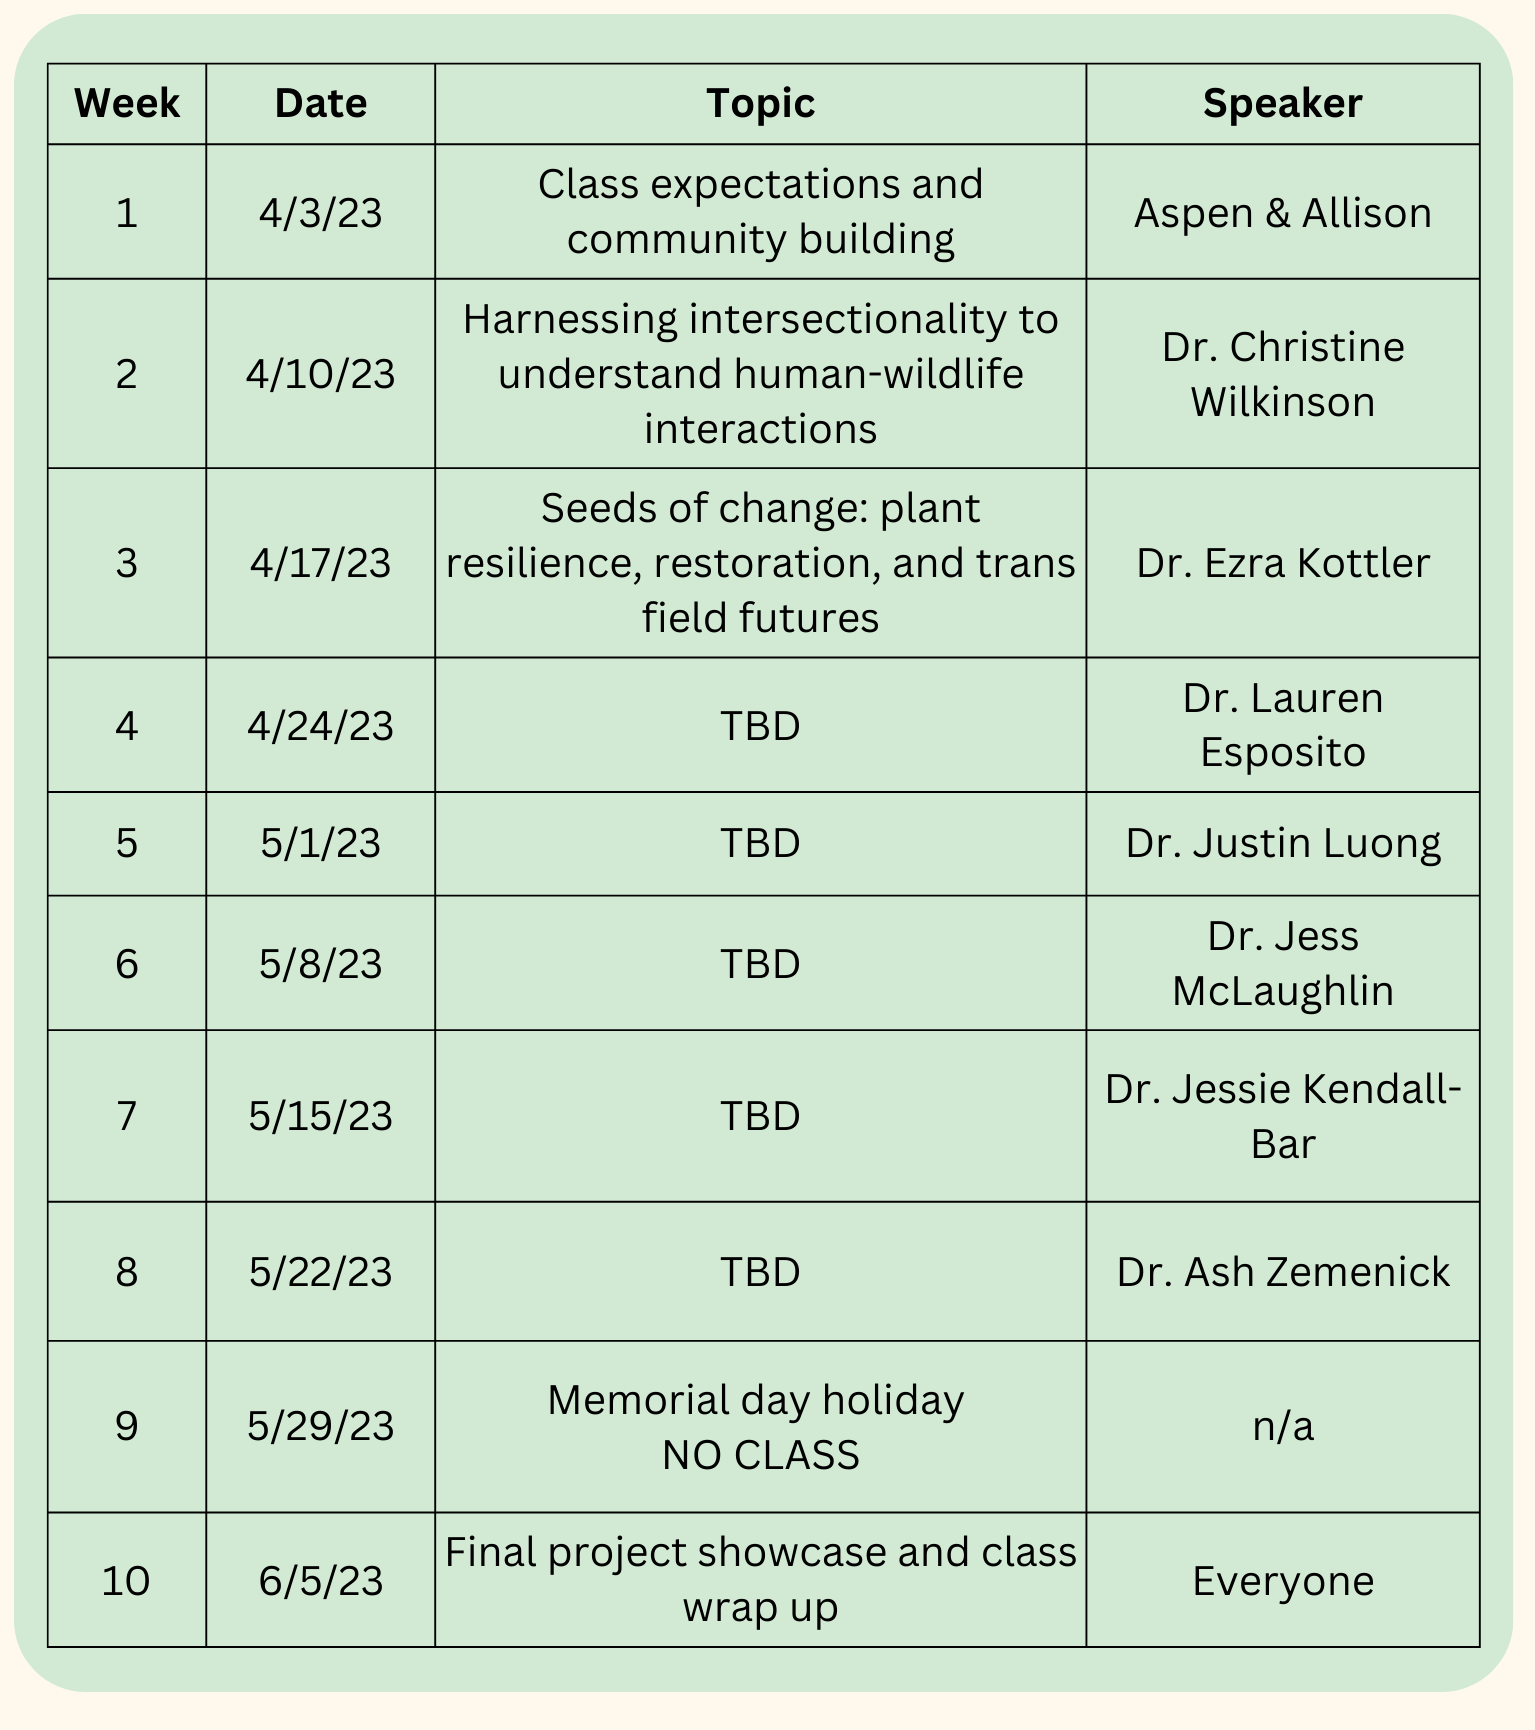
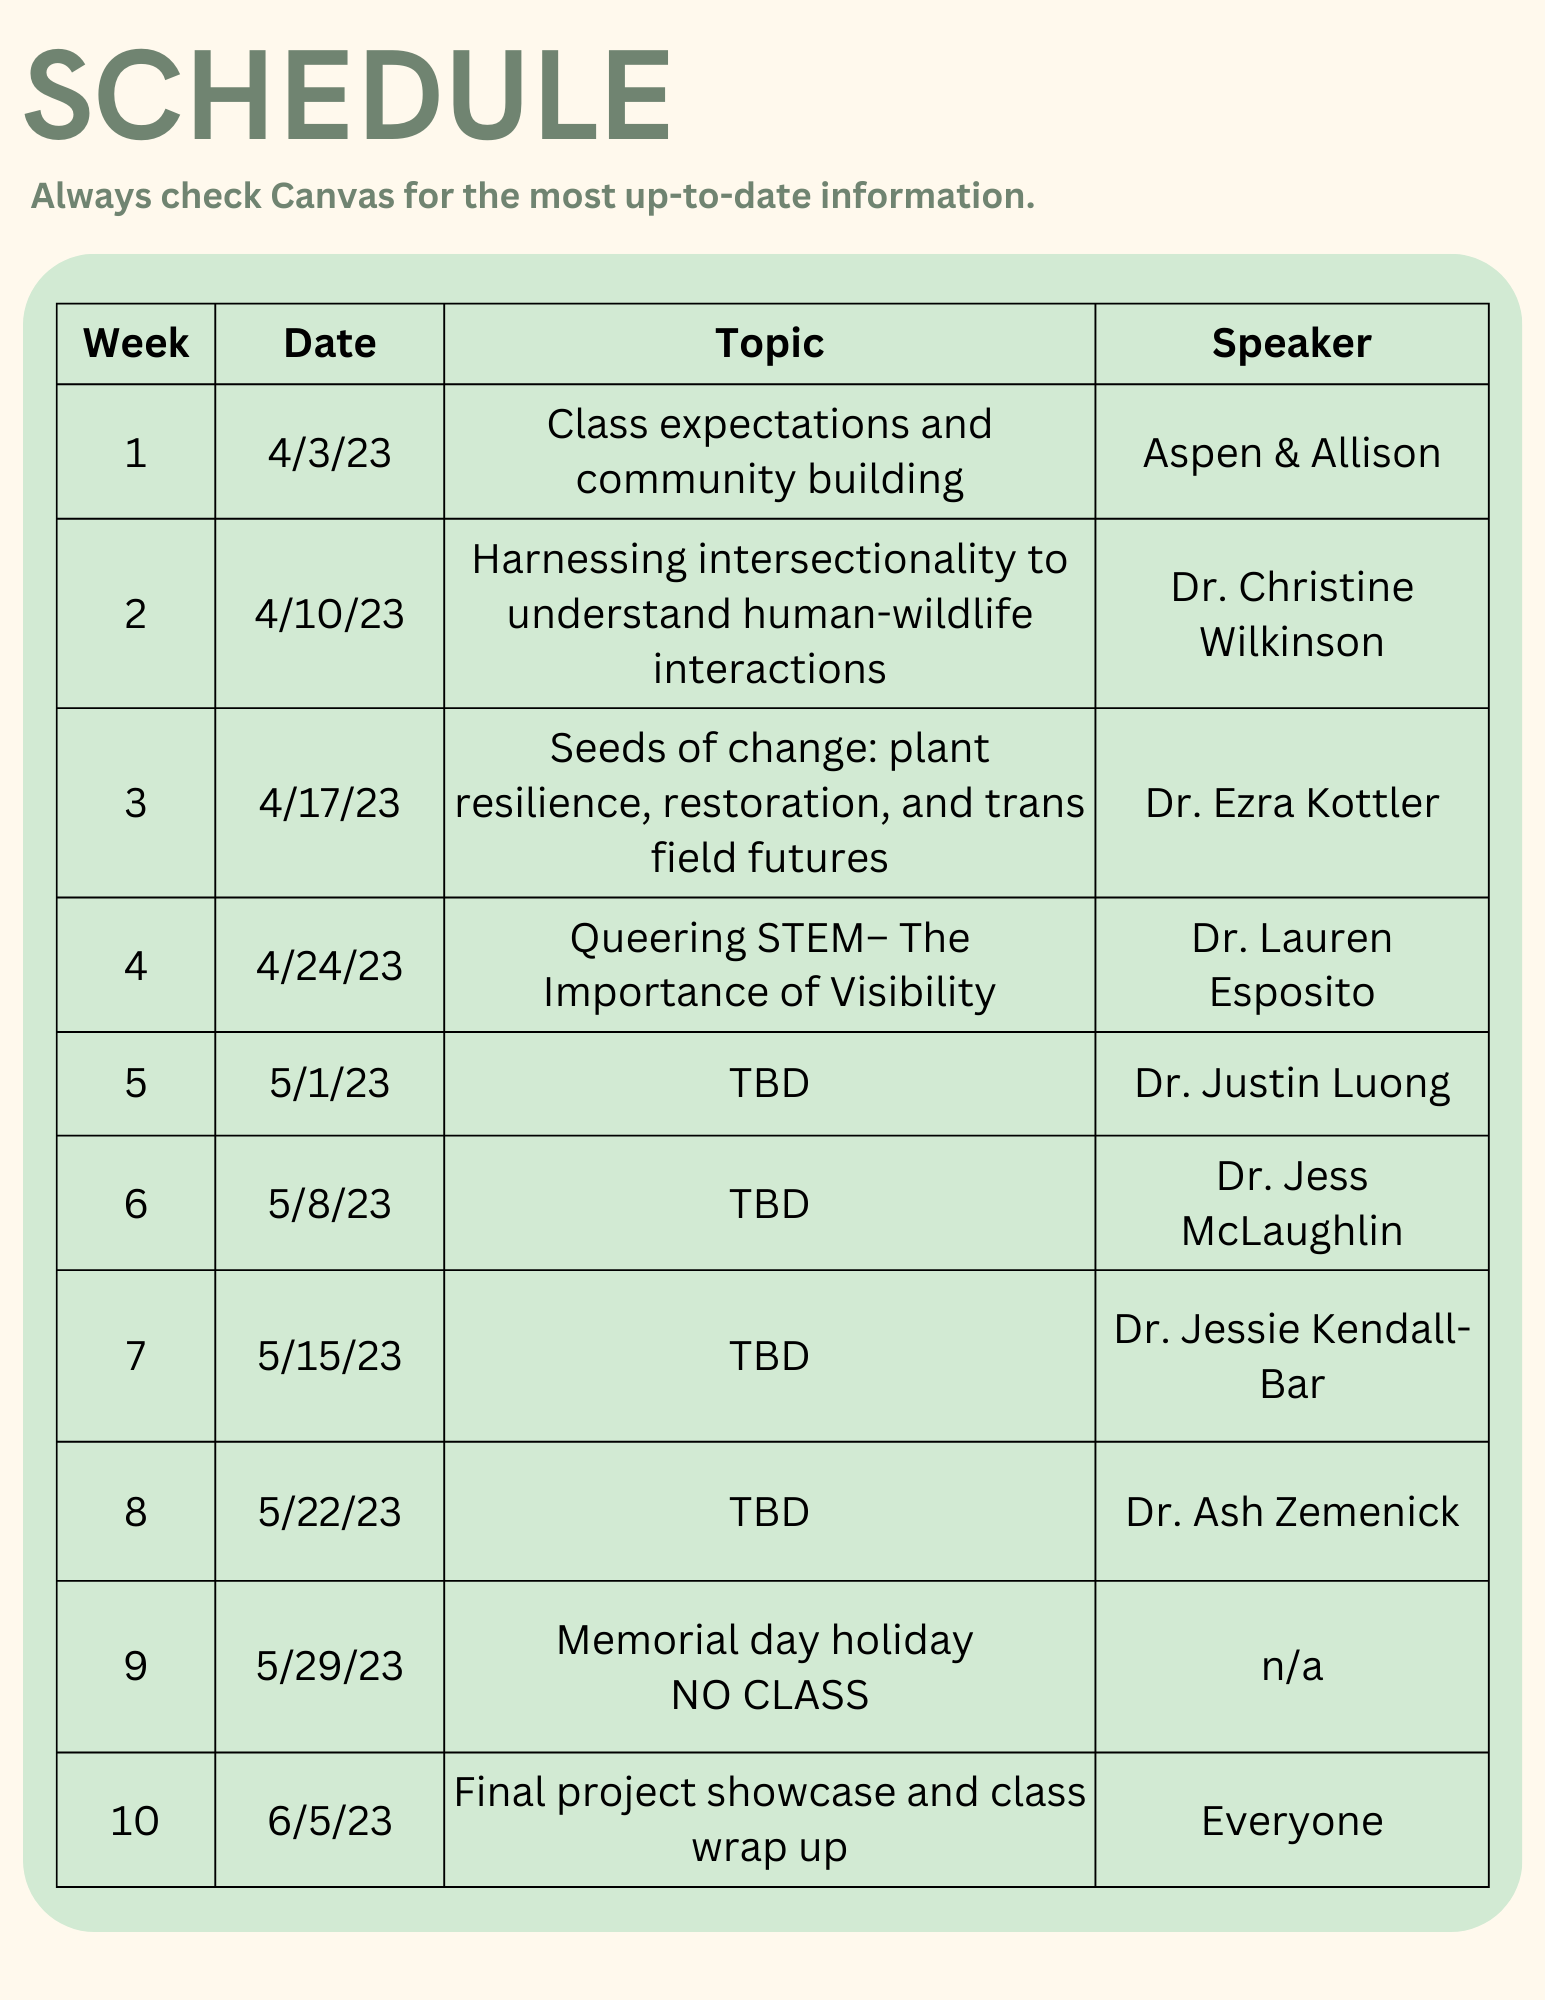
Updating the week 4 page and the course schedule.

diff --git a/docs/course/week4.html b/docs/course/week4.html
@@ -116,6 +116,10 @@ ul.task-list li input[type="checkbox"] {
     <a class="dropdown-item" href="../course/week3.html">
  <span class="dropdown-text">Week 3</span></a>
   </li>  
+        <li>
+    <a class="dropdown-item" href="../course/week4.html">
+ <span class="dropdown-text">Week 4</span></a>
+  </li>  
     </ul>
   </li>
 </ul>
@@ -162,16 +166,17 @@ ul.task-list li input[type="checkbox"] {
 <h2 class="anchored" data-anchor-id="speaker-dr.-lauren-esposito">Speaker: Dr.&nbsp;Lauren Esposito</h2>
 <div class="columns">
 <div class="column" style="width:35%;">
-<p>Lauren’s photo here</p>
+<p><img src="../img/LaurenEsposito.jpeg" class="img-fluid"></p>
 </div><div class="column" style="width:5%;">
 
 </div><div class="column" style="width:60%;">
-<p>Lauren’s bio goes here</p>
+<p>Dr.&nbsp;Lauren Esposito is the Curator and Schlinger Chair of Arachnology at the California Academy of Sciences. Lauren's current research investigates the patterns and processes of evolution in spiders, scorpions, with a focus on tropical islands. Originally from the US-Mexico borderlands, she completed her undergraduate degree at the University of Texas at El Paso, and went on to obtain an MS and PhD from the American Museum of Natural History in collaboration with the City University of New York. Lauren is the co-founder/director of a science, education, and conservation non-profit called Islands &amp; Seas, and the founder of 500 Queer Scientists, a visibility campaign for LGBTQ+ people working in STEM careers.</p>
 </div>
 </div>
 </section>
 <section id="assigned-reading" class="level2">
 <h2 class="anchored" data-anchor-id="assigned-reading">Assigned reading</h2>
+<p>“Measuring What We Don’t Know: Biodiversity Catalogs Reveal Bias in Taxonomic Effort”: <a href="https://academic.oup.com/bioscience/article-abstract/73/2/112/7067488" class="uri">https://academic.oup.com/bioscience/article-abstract/73/2/112/7067488</a></p>
 
 
 </section>

diff --git a/docs/about.html b/docs/about.html
@@ -116,6 +116,10 @@ ul.task-list li input[type="checkbox"] {
     <a class="dropdown-item" href="./course/week3.html">
  <span class="dropdown-text">Week 3</span></a>
   </li>  
+        <li>
+    <a class="dropdown-item" href="./course/week4.html">
+ <span class="dropdown-text">Week 4</span></a>
+  </li>  
     </ul>
   </li>
 </ul>
@@ -165,11 +169,11 @@ ul.task-list li input[type="checkbox"] {
 <p><span class="custom-subtitle">Aspen Ellis</span></p>
 <div class="columns">
 <div class="column" style="width:35%;">
-<p>Here is Aspen’s headshot</p>
+<p>Aspen’s headshot</p>
 </div><div class="column" style="width:5%;">
 
 </div><div class="column" style="width:60%;">
-<p>Here is Aspen’s Bio</p>
+<p>Aspen’s Bio</p>
 </div>
 </div>
 

diff --git a/docs/course/schedule.html b/docs/course/schedule.html
@@ -116,6 +116,10 @@ ul.task-list li input[type="checkbox"] {
     <a class="dropdown-item" href="../course/week3.html">
  <span class="dropdown-text">Week 3</span></a>
   </li>  
+        <li>
+    <a class="dropdown-item" href="../course/week4.html">
+ <span class="dropdown-text">Week 4</span></a>
+  </li>  
     </ul>
   </li>
 </ul>

diff --git a/docs/course/week1.html b/docs/course/week1.html
@@ -116,6 +116,10 @@ ul.task-list li input[type="checkbox"] {
     <a class="dropdown-item" href="../course/week3.html">
  <span class="dropdown-text">Week 3</span></a>
   </li>  
+        <li>
+    <a class="dropdown-item" href="../course/week4.html">
+ <span class="dropdown-text">Week 4</span></a>
+  </li>  
     </ul>
   </li>
 </ul>

diff --git a/docs/course/week10.html b/docs/course/week10.html
@@ -116,6 +116,10 @@ ul.task-list li input[type="checkbox"] {
     <a class="dropdown-item" href="../course/week3.html">
  <span class="dropdown-text">Week 3</span></a>
   </li>  
+        <li>
+    <a class="dropdown-item" href="../course/week4.html">
+ <span class="dropdown-text">Week 4</span></a>
+  </li>  
     </ul>
   </li>
 </ul>

diff --git a/docs/course/week2.html b/docs/course/week2.html
@@ -116,6 +116,10 @@ ul.task-list li input[type="checkbox"] {
     <a class="dropdown-item" href="../course/week3.html">
  <span class="dropdown-text">Week 3</span></a>
   </li>  
+        <li>
+    <a class="dropdown-item" href="../course/week4.html">
+ <span class="dropdown-text">Week 4</span></a>
+  </li>  
     </ul>
   </li>
 </ul>

diff --git a/docs/course/week3.html b/docs/course/week3.html
@@ -116,6 +116,10 @@ ul.task-list li input[type="checkbox"] {
     <a class="dropdown-item" href="../course/week3.html">
  <span class="dropdown-text">Week 3</span></a>
   </li>  
+        <li>
+    <a class="dropdown-item" href="../course/week4.html">
+ <span class="dropdown-text">Week 4</span></a>
+  </li>  
     </ul>
   </li>
 </ul>

diff --git a/docs/course/week5.html b/docs/course/week5.html
@@ -116,6 +116,10 @@ ul.task-list li input[type="checkbox"] {
     <a class="dropdown-item" href="../course/week3.html">
  <span class="dropdown-text">Week 3</span></a>
   </li>  
+        <li>
+    <a class="dropdown-item" href="../course/week4.html">
+ <span class="dropdown-text">Week 4</span></a>
+  </li>  
     </ul>
   </li>
 </ul>

diff --git a/docs/course/week6.html b/docs/course/week6.html
@@ -116,6 +116,10 @@ ul.task-list li input[type="checkbox"] {
     <a class="dropdown-item" href="../course/week3.html">
  <span class="dropdown-text">Week 3</span></a>
   </li>  
+        <li>
+    <a class="dropdown-item" href="../course/week4.html">
+ <span class="dropdown-text">Week 4</span></a>
+  </li>  
     </ul>
   </li>
 </ul>

diff --git a/docs/course/week7.html b/docs/course/week7.html
@@ -116,6 +116,10 @@ ul.task-list li input[type="checkbox"] {
     <a class="dropdown-item" href="../course/week3.html">
  <span class="dropdown-text">Week 3</span></a>
   </li>  
+        <li>
+    <a class="dropdown-item" href="../course/week4.html">
+ <span class="dropdown-text">Week 4</span></a>
+  </li>  
     </ul>
   </li>
 </ul>

diff --git a/docs/course/week8.html b/docs/course/week8.html
@@ -116,6 +116,10 @@ ul.task-list li input[type="checkbox"] {
     <a class="dropdown-item" href="../course/week3.html">
  <span class="dropdown-text">Week 3</span></a>
   </li>  
+        <li>
+    <a class="dropdown-item" href="../course/week4.html">
+ <span class="dropdown-text">Week 4</span></a>
+  </li>  
     </ul>
   </li>
 </ul>

diff --git a/docs/course/week9.html b/docs/course/week9.html
@@ -116,6 +116,10 @@ ul.task-list li input[type="checkbox"] {
     <a class="dropdown-item" href="../course/week3.html">
  <span class="dropdown-text">Week 3</span></a>
   </li>  
+        <li>
+    <a class="dropdown-item" href="../course/week4.html">
+ <span class="dropdown-text">Week 4</span></a>
+  </li>  
     </ul>
   </li>
 </ul>
